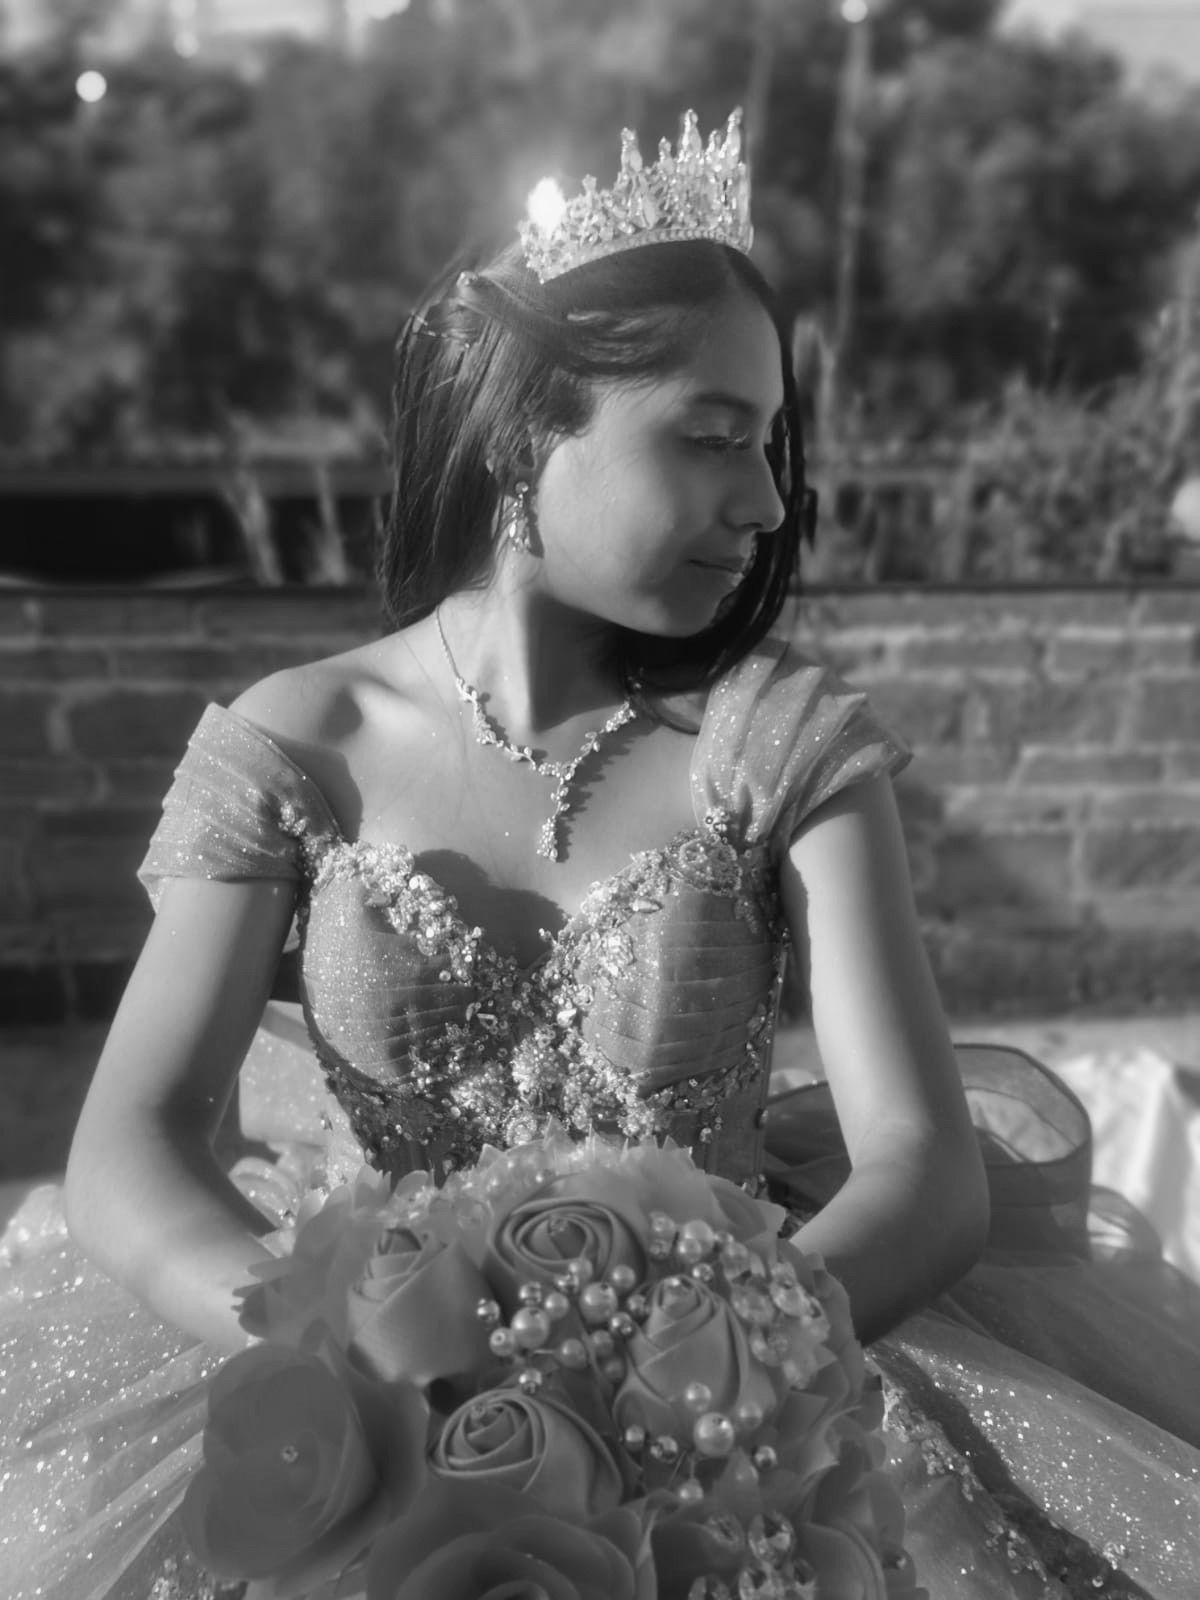
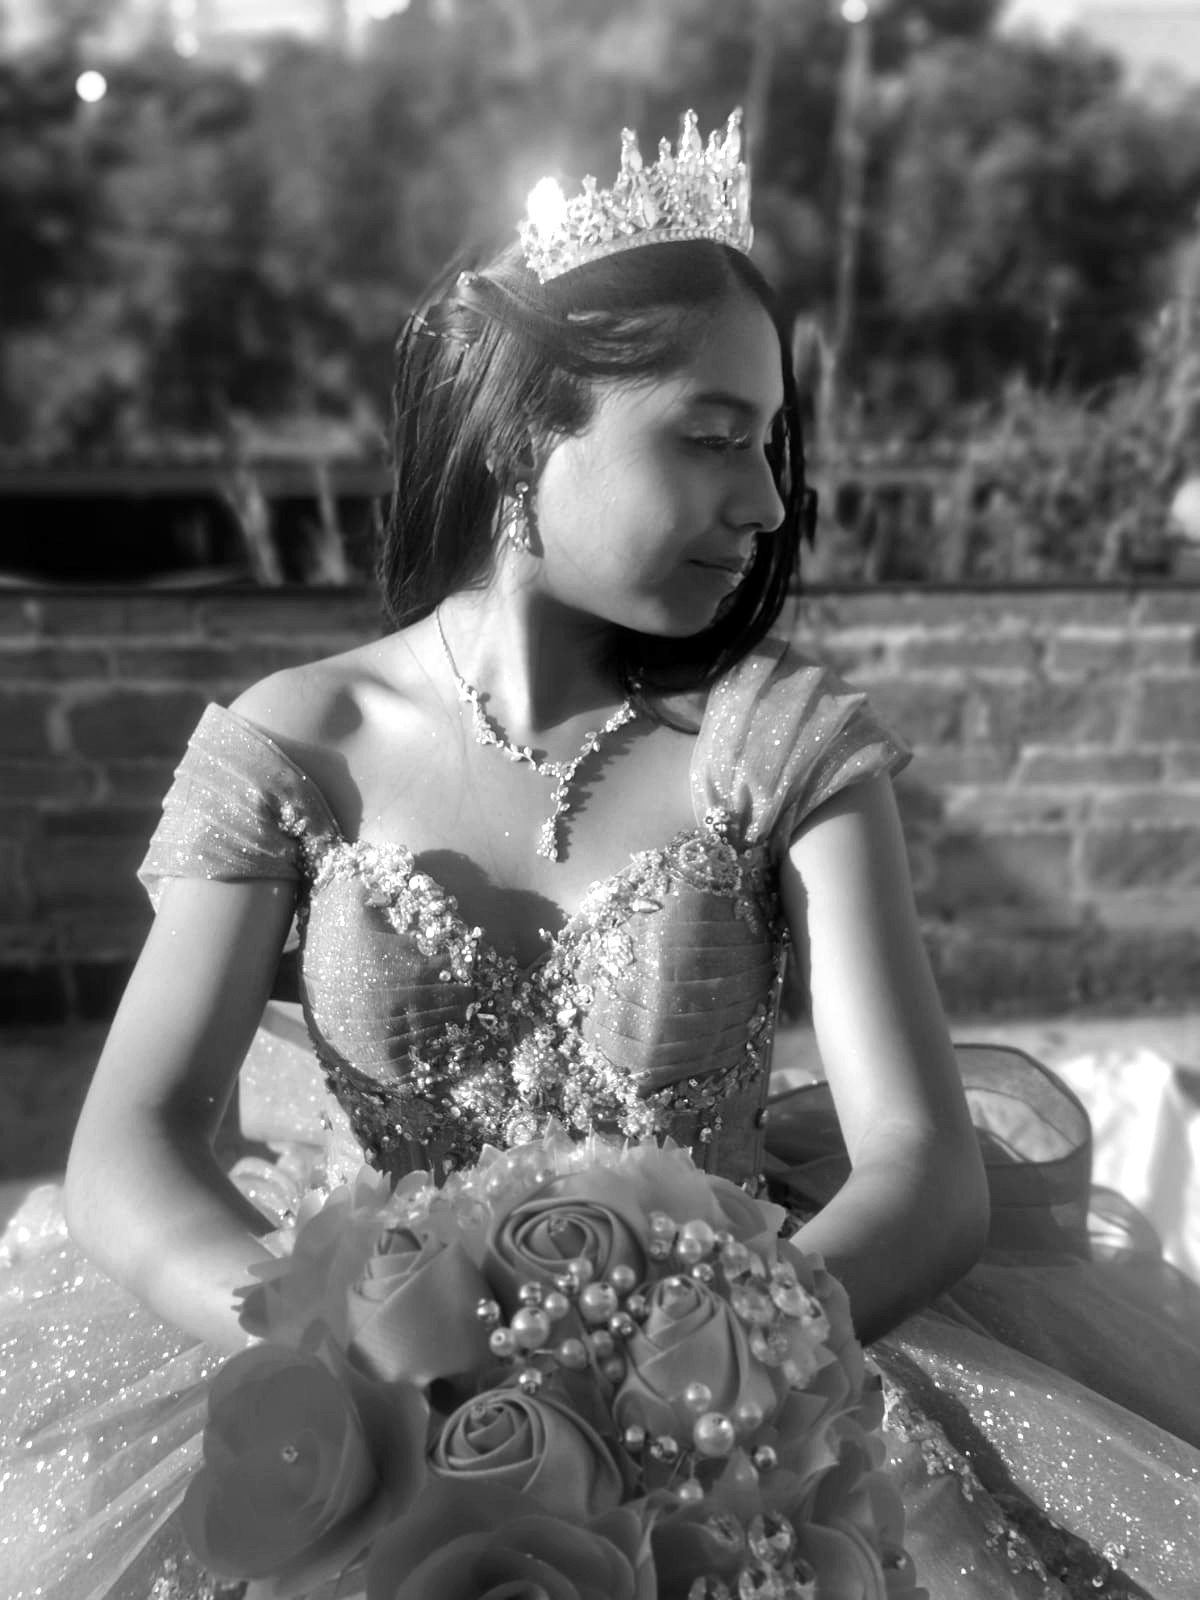
Reencuadre vertical 9:16 de fotos para celular, realce de brillo y composicion sin cortes

diff --git a/style.css b/style.css
@@ -279,11 +279,11 @@ h1, h2, h3, h4 {
     position: relative;
     width: 100vw;
     margin-left: calc(-50vw + 50%);
-    min-height: 105vh;
+    min-height: 100vh;
     display: flex;
     justify-content: center;
-    align-items: flex-end; /* Mueve el texto hacia la parte inferior del vestido sin tapar su rostro */
-    background: url('Imagenes/imagen1.jpeg') no-repeat center 20%;
+    align-items: flex-end; /* Mantiene el texto en la parte inferior sobre el fondo con buen contraste */
+    background: url('Imagenes/imagen1.jpeg') no-repeat center center;
     background-size: cover;
     background-attachment: scroll;
     overflow: hidden;
@@ -381,7 +381,7 @@ h1, h2, h3, h4 {
     justify-content: center;
     align-items: flex-end;
     background-size: cover;
-    background-position: center 30%;
+    background-position: center center;
     overflow: hidden;
 }
 
